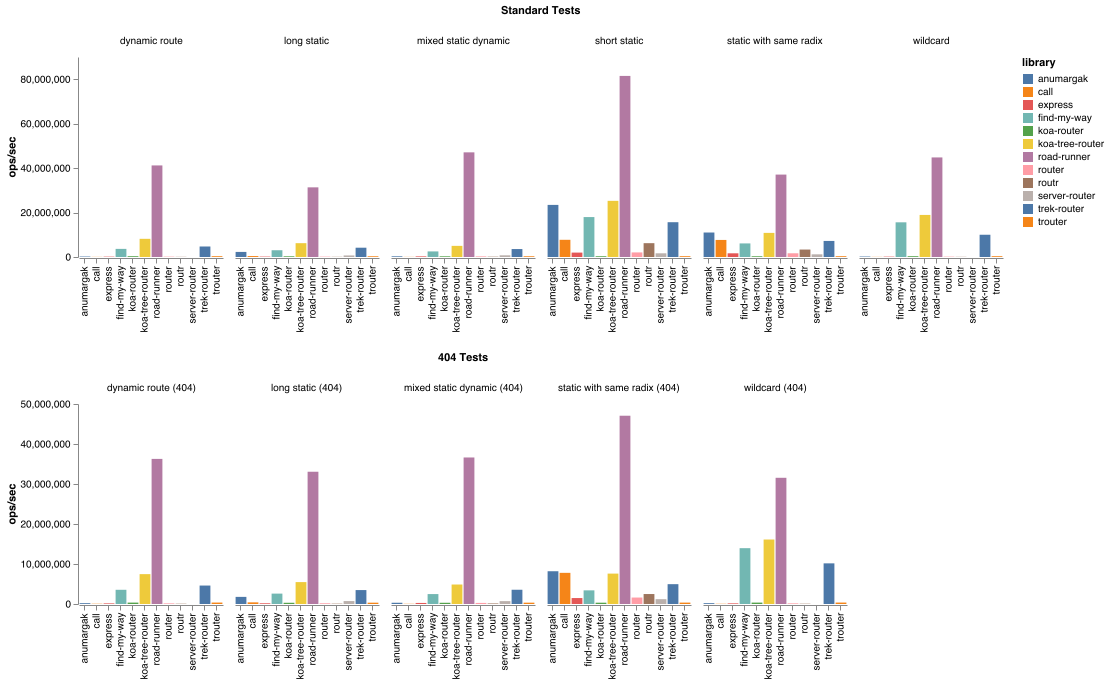
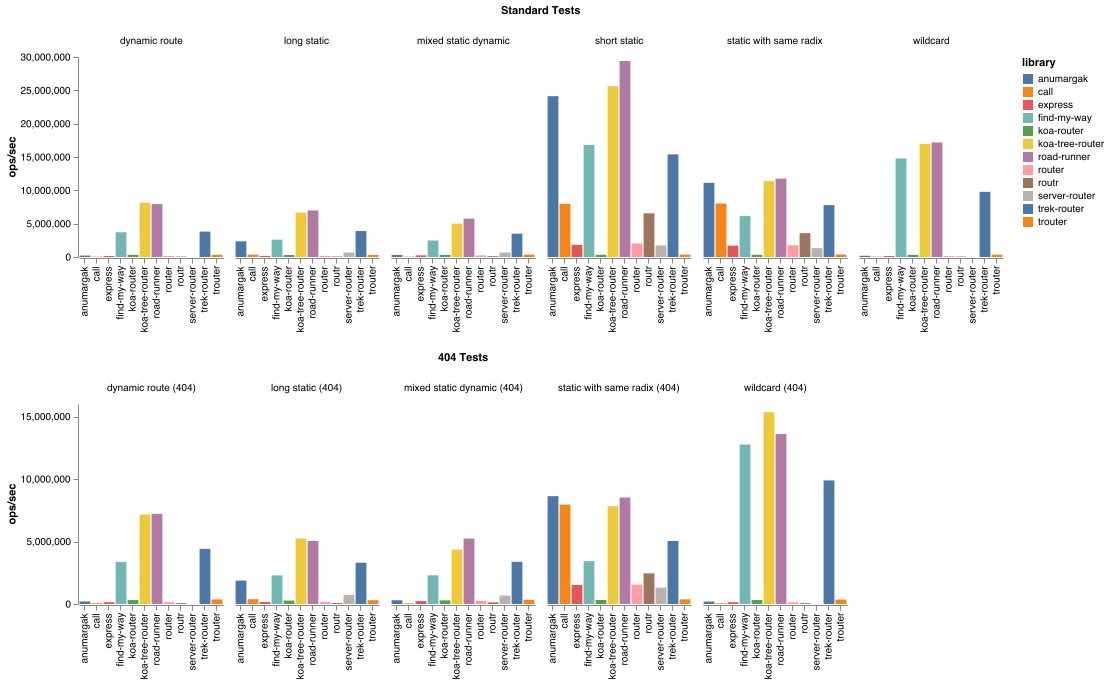
latest bench after fixes

diff --git a/libraries/road-runner.js b/libraries/road-runner.js
@@ -1,6 +1,8 @@
 'use strict'
 
-const router = require('@parisholley/road-runner').roadrunner()
+const RoadRunner = require('@parisholley/road-runner')
+
+const router = new RoadRunner()
 
 module.exports = {
   name: 'road-runner',
